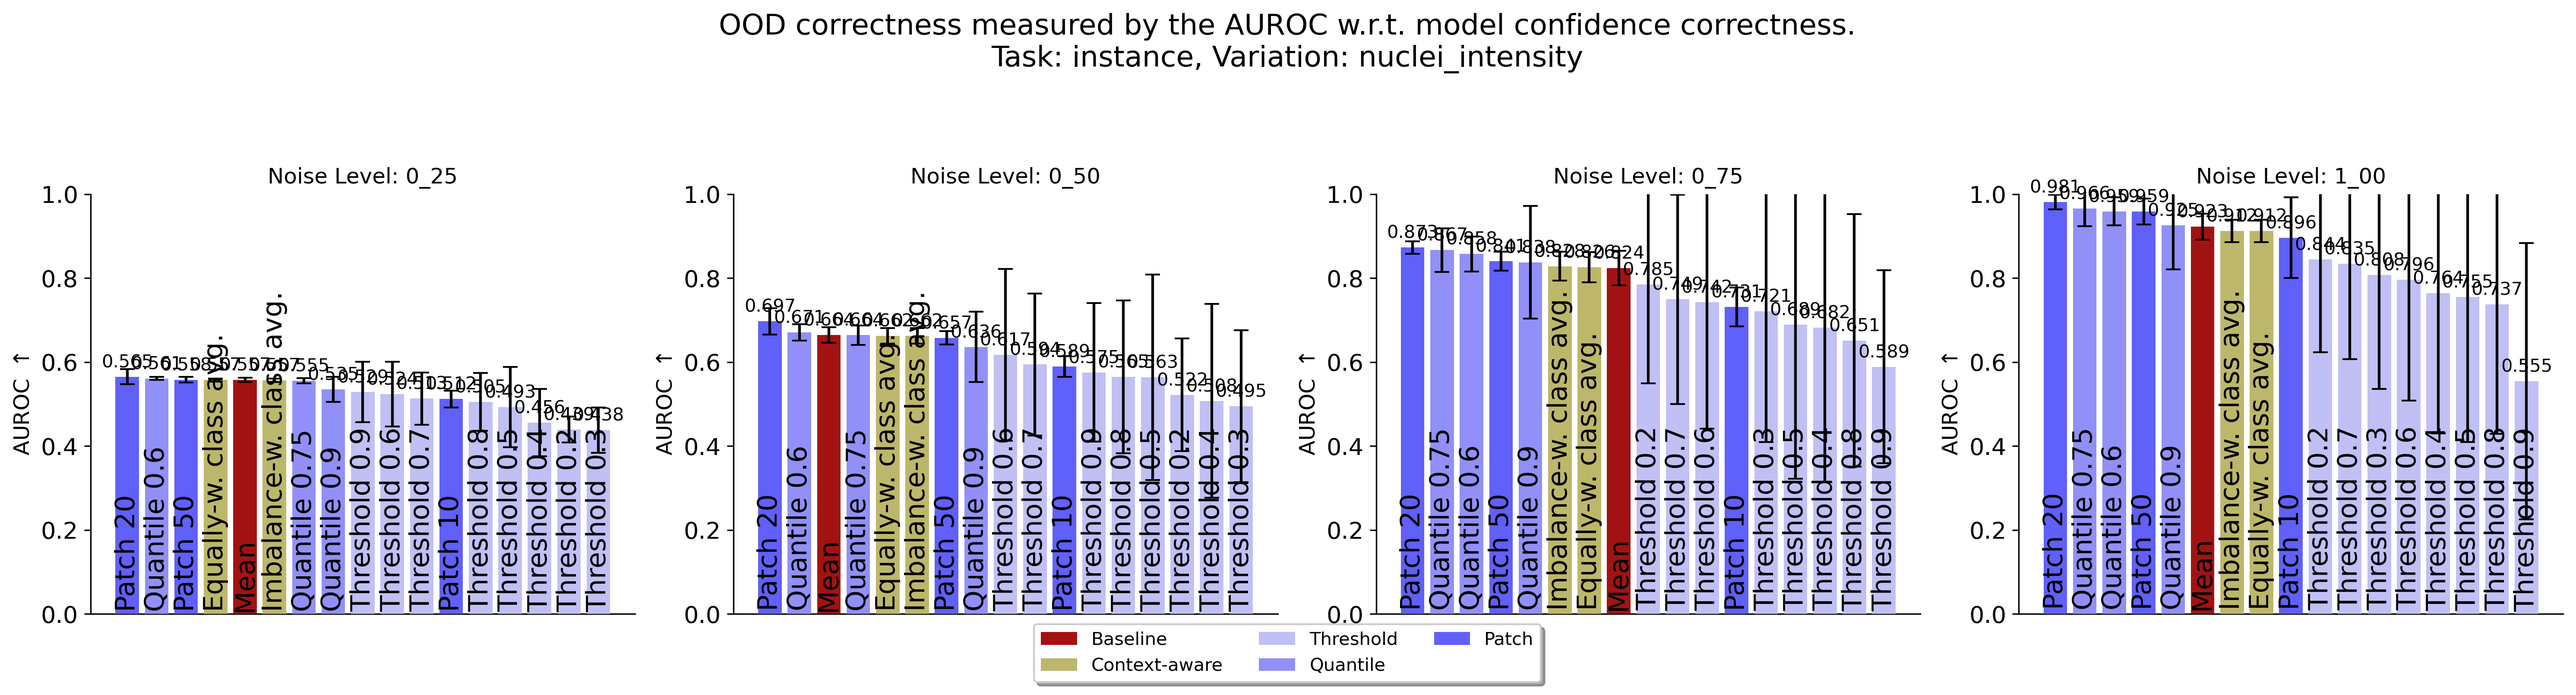
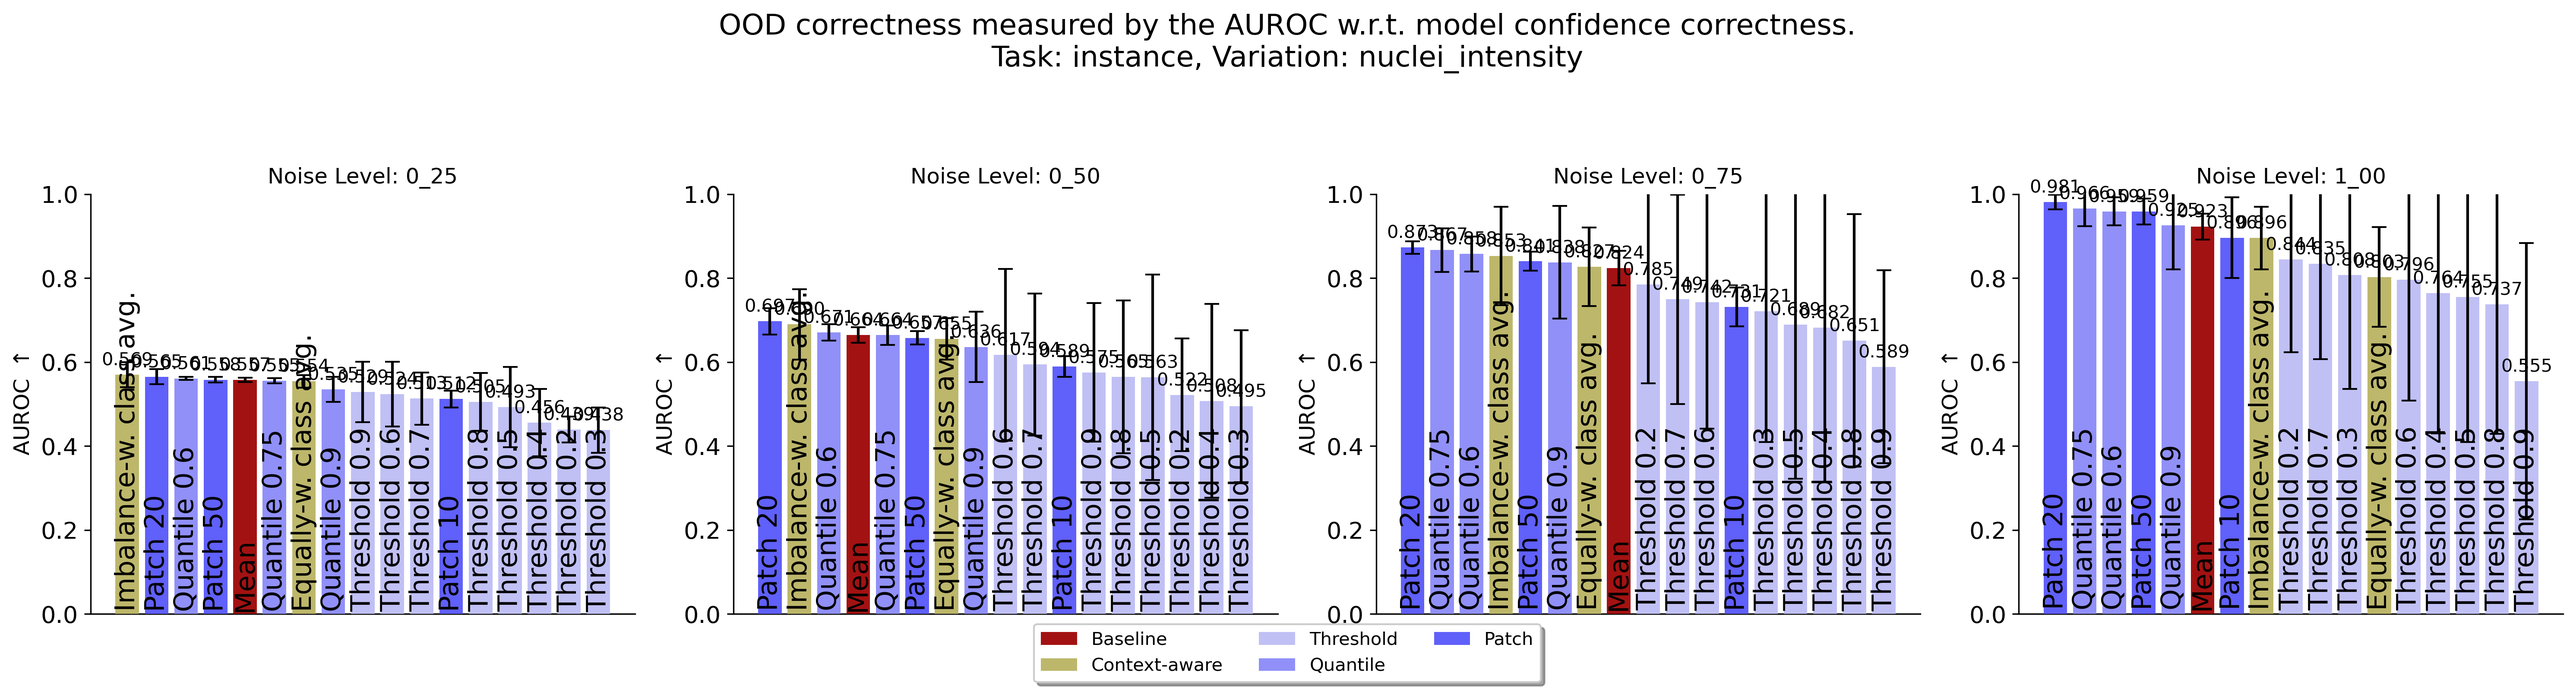
added gt and uq_maps metadata control function > modified AUROC results accordingly for context-aware aggregators

diff --git a/evaluation/data_utils.py b/evaluation/data_utils.py
@@ -73,6 +73,28 @@ def setup_paths(args: argparse.Namespace) -> DataPaths:
 
 # ---- Sanity Check ----
 
+def reorder_gt_data_by_metadata(gt_list, gt_labels, metadata_zr, metadata_r, dataset): # TODO - understand whether gt_labels should also be re-indexed !
+    """Reorder gt_list and gt_labels to match the order in cached_maps metadata."""
+    # Extract sample names from dataset
+    id_sample_names = dataset['id_masks'].dataset.sample_names
+    ood_sample_names = dataset['ood_masks'].dataset.sample_names
+    
+    # Combine all current sample names and metadata order
+    current_sample_names = list(id_sample_names) + list(ood_sample_names)
+    target_order = list(metadata_zr) + list(metadata_r)
+    
+    # Create mapping from sample name to current index
+    name_to_current_idx = {name: idx for idx, name in enumerate(current_sample_names)}
+    
+    # Create reordering indices based on target metadata order
+    reorder_indices = []
+    for target_name in target_order:
+        if target_name in name_to_current_idx:
+            reorder_indices.append(name_to_current_idx[target_name])
+        else:
+            raise ValueError(f"Sample name {target_name} not found in current data")
+    return gt_list[reorder_indices], gt_labels[reorder_indices] # Reorder the arrays
+
 def validate_indices(args, metadata_path, uq_method, dataset, dataset_name):
     meta_type = f"{args.task}_noise_{args.model_noise}_{args.variation}_{args.image_noise}_{uq_method}_{args.decomp}_sample_idx.npy"
     metadata_file_path = metadata_path.joinpath(meta_type)
@@ -85,7 +107,7 @@ def validate_indices(args, metadata_path, uq_method, dataset, dataset_name):
         if hasattr(dataset_loader, 'sample_names') and (dataset_loader.sample_names == indices).any():
             print('✓ Uncertainty values, predictions and masks indices match')
         else:
-            print('⚠ WARNING: Uncertainty values, predictions and masks indices DO NOT match')
+            raise ValueError('⚠ WARNING: Uncertainty values, predictions and masks indices DO NOT match')
     else:
         print('✓ Uncertainty values, predictions and masks indices match')
 
@@ -186,6 +208,7 @@ def preload_uncertainty_maps(
     metadata_path: Path, 
     context_gt: List[np.ndarray], 
     gt_labels: List[np.ndarray], 
+    dataset: DataLoader,
     task: str, 
     model_noise: int, 
     variation: str, 
@@ -207,6 +230,7 @@ def preload_uncertainty_maps(
             uq_path, task, model_noise, variation, '0_00', 
             uq_method, decomp, dataset_name, False, metadata_path
         )
+        print()
         uq_maps_r, metadata_file_r = load_unc_maps(
             uq_path, task, model_noise, variation, data_noise, 
             uq_method, decomp, dataset_name, False, metadata_path
@@ -219,6 +243,11 @@ def preload_uncertainty_maps(
         # Concatenate maps
         uq_maps = np.concatenate((uq_maps_zr, uq_maps_r), axis=0)
         
+        # Ensures that the ground truth masks, labels and uncertainty maps are consistent
+        context_gt, _ = reorder_gt_data_by_metadata(
+            context_gt, gt_labels, metadata_file_zr, metadata_file_r, dataset
+        )
+        
         # Create UncertaintyMap objects
         uncertainty_maps = [
             UncertaintyMap(array=array, mask=gt, name=None) 
@@ -229,7 +258,7 @@ def preload_uncertainty_maps(
         cached_maps[uq_method] = {
             'maps': uncertainty_maps,
             'gt_labels': gt_labels,
-            'metadata': [metadata_file_zr, metadata_file_r]
+            'metadata': [metadata_file_zr, metadata_file_r],
         }
     return cached_maps
 
@@ -266,8 +295,9 @@ def process_aggr_unc(uq_path: Path,
     uq_maps = [UncertaintyMap(array=array, mask=gt, name=None) for array, gt in zip(uq_maps, gt_sem)]
     
     # Apply aggregation method to each map
-    if category == 'Class-based':
+    if category == 'Context-aware':
         res = [method(map, param, True) for map in uq_maps]
+        print('HERE -------', res)
         # Convert numpy types to Python types for consistency - in some cases the resulting values have a weird np.float(64) format..
         converted_res = []
         for item in res:

diff --git a/evaluation/scripts/evaluate_auroc.py b/evaluation/scripts/evaluate_auroc.py
@@ -26,14 +26,14 @@ def clear_csv_file(output_path: Path, task: str, dataset_name: str, variation: s
     else:
         print(f"{csv_file} does not exist yet.")
 
-def process_noise_level(uq_path: Path, metadata_path: Path, gt_list: list, gt_labels: list, task: str, model_noise: int, 
+def process_noise_level(dataset: dict, uq_path: Path, metadata_path: Path, gt_list: list, gt_labels: list, task: str, model_noise: int, 
                         variation: str, noise_level: str, output_path: Path, dataset_name: str, decomp: str) -> pd.DataFrame:
     """Process all strategies for a single noise level."""
     print(f"Processing noise level: {noise_level}")
     
     # Preload all uncertainty maps for this noise level
     cached_maps = preload_uncertainty_maps(
-        uq_path, metadata_path, gt_list, gt_labels, task, model_noise, variation, noise_level, dataset_name, decomp
+        uq_path, metadata_path, gt_list, gt_labels, dataset, task, model_noise, variation, noise_level, dataset_name, decomp
     )
     
     # Evaluate all strategies
@@ -52,7 +52,7 @@ def process_noise_level(uq_path: Path, metadata_path: Path, gt_list: list, gt_la
     
     return df
 
-def run_auroc_evaluation(task: str, variation: str, uq_path: Path, metadata_path: Path, data_path: Path,
+def run_auroc_evaluation(args: dict, task: str, variation: str, uq_path: Path, metadata_path: Path, data_path: Path,
                          dataset_name: str, output_path: Path, model_noise: int = 0, decomp: str = "pu") -> None:
     """
     Create comparative bar plots of image-level AUROC values for different noise levels and UQ methods.
@@ -83,8 +83,8 @@ def run_auroc_evaluation(task: str, variation: str, uq_path: Path, metadata_path
     # Define noise levels
     nls = NOISE_LEVELS_ARCTIQUE if dataset_name.startswith('arctique') else NOISE_LEVELS
     
-    # Load ground truth masks and AUROC target labels
-    _, gt_list, gt_labels = load_dataset(
+    # Load whole dataset, ground truth masks and AUROC target labels
+    dataset, gt_list, gt_labels = load_dataset(
         data_path, 
         '0_00',
         num_workers=2,
@@ -96,7 +96,7 @@ def run_auroc_evaluation(task: str, variation: str, uq_path: Path, metadata_path
     results = []
     for noise_level in nls:
         df = process_noise_level(
-            uq_path, metadata_path, gt_list, gt_labels, task, model_noise, 
+            dataset, uq_path, metadata_path, gt_list, gt_labels, task, model_noise, 
             variation, noise_level, output_path, dataset_name, decomp
         )
         results.append(df)
@@ -155,6 +155,7 @@ def main():
     
     # Run evaluation
     run_auroc_evaluation(
+        args=args,
         task=args.task,
         variation=args.variation,
         uq_path=paths.uq_maps,

diff --git a/evaluation/constants.py b/evaluation/constants.py
@@ -35,14 +35,14 @@ AUROC_STRATEGIES = {
                 'Mean': (am.mean, None), 
             },
         'Threshold':{
-                # 'Threshold 0.2': (am.above_threshold_mean, 0.2),
+                'Threshold 0.2': (am.above_threshold_mean, 0.2),
                 'Threshold 0.3': (am.above_threshold_mean, 0.3),
                 'Threshold 0.4': (am.above_threshold_mean, 0.4),
                 'Threshold 0.5': (am.above_threshold_mean, 0.5),
-                # 'Threshold 0.6': (am.above_threshold_mean, 0.6),
-                # 'Threshold 0.7': (am.above_threshold_mean, 0.7),
-                # 'Threshold 0.8': (am.above_threshold_mean, 0.8),
-                # 'Threshold 0.9': (am.above_threshold_mean, 0.9),
+                'Threshold 0.6': (am.above_threshold_mean, 0.6),
+                'Threshold 0.7': (am.above_threshold_mean, 0.7),
+                'Threshold 0.8': (am.above_threshold_mean, 0.8),
+                'Threshold 0.9': (am.above_threshold_mean, 0.9),
             },
         'Quantile':{
                 'Quantile 0.6': (am.above_quantile_mean, 0.6),
@@ -57,7 +57,7 @@ AUROC_STRATEGIES = {
     }
 
 BACKGROUND_FREE_STRATEGIES = {
-    'Class-based': {
+    'Context-aware': {
         "equally-weighted average": (am.class_mean_w_equal_weights, None),
         "imbalance-weighted average": (am.class_mean_weighted_by_occurrence, None),
     }
